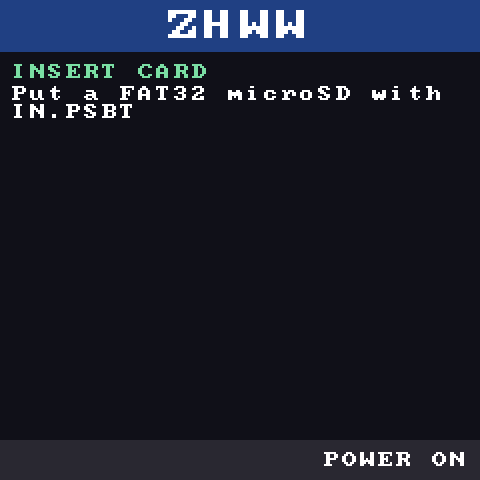
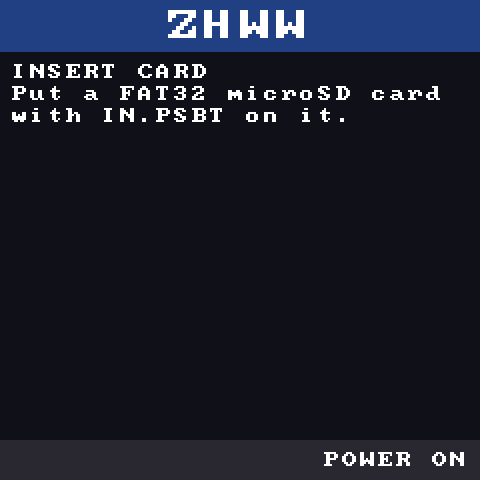
端末の状態機械を独立モジュールにし、全画面（エラー含む）を描けるようにした（299 → 304 テスト）
① 状態機械のモジュール化:
- src/app/device.zig: 端末が出すべき画面を決める層（ハードにもチェーンにも依存しない）。
  状況（待機・FAT32 でない・カードが読めない・IN.PSBT が無い・大きすぎる・PSBT が不正・
  鍵が無い・未対応の署名方式・その他）→ 画面の内容、という対応を 1 箇所に集約
- エラーの対応づけ（problemForMountError / problemForSignError）とファイルサイズの判定も
  ここに置き、テストで固定した
- 実機の main ループと PC 上の確認（walkthrough）が**同じ関数**を使う

② エラー画面の網羅:
- walkthrough が 7 画面（待機 + エラー 4 種 + 確認 + 結果）を PNG で出力
- **すべてのエラー画面に「署名は行っていない」旨を赤字で表示**（誤解させない）
- docs/08 に画面の対応表と画像を掲載

③ QR のページ送り:
- 署名済み PSBT は UR の複数パートになる（例では 4 パート）。 で確認でき、
  実機の NEXT PART と同じ流れになる

副次的な改善:
- 文字の折り返しを単語単位に変更（従来は単語の途中で切れていた）

UI 層と状態機械は RP2040 / RP2350 向けにもコンパイルできることを確認（zig build pico）。

diff --git a/docs/08-rp2350-pizero.md b/docs/08-rp2350-pizero.md
@@ -248,35 +248,43 @@ PC / スマホ側のツールと取り決める仕様をここで固定する。
 
 ### 画面の流れ（PC 上で再現できる）
 
-実機が無くても、カードを挿してから結果を出すまでの画面を PNG で確認できる。
+実機が無くても、**すべての画面**を PNG で確認できる。状態と画面の対応は
+[src/app/device.zig](../firmware/src/app/device.zig) にあり、**実機の main ループと PC の確認が同じ関数を使う**。
 
 ```bash
-# FAT32 イメージを用意して IN.PSBT を置く（mtools）
+# カードを用意する（mtools）
 mkfs.fat -F 32 -C card.img 40000
 jq -r .unsigned_psbt_base64 firmware/tests/vectors/core_psbt.json > in.txt
 mcopy -i card.img in.txt ::/IN.PSBT
 
-# 実機の画面の流れを出力する
+# 全画面を出力する
 cd firmware && zig build
 ./zig-out/bin/zhww walkthrough --image ../card.img \
   --mnemonic "abandon … about" --out-dir ../docs/images
 ```
 
-| 画面 | 内容 |
-|---|---|
-| ![1](images/1-waiting.png) | **カード待ち**: `INSERT CARD` |
-| ![2](images/2-found.png) | **確認**: カード上のファイル一覧と `SIGN` / `CANCEL` |
-| ![3](images/3-signed.png) | **結果**: 署名数・手数料と、署名済み PSBT の UR を QR で表示（`NEXT PART` で次のパートへ） |
+| 画面 | いつ出るか | 出力 |
+|---|---|---|
+| ![待機](images/1-waiting.png) | カードが挿さっていない | `1-waiting.png` |
+| ![FAT32 でない](images/2-not-fat32.png) | カードは読めたが FAT32 でない | `2-not-fat32.png` |
+| ![IN.PSBT が無い](images/3-no-input.png) | `IN.PSBT` が無い | `3-no-input.png` |
+| ![大きすぎる](images/4-too-large.png) | 64KB を超えている | `4-too-large.png` |
+| ![PSBT が不正](images/5-invalid-psbt.png) | PSBT として解釈できない | `5-invalid-psbt.png` |
+| ![確認](images/6-confirm.png) | 署名前の確認（カード上のファイル一覧） | `6-confirm.png` |
+| ![結果](images/7-signed.png) | 署名完了（UR を QR で表示） | `7-signed.png` |
+
+**すべてのエラー画面に「署名は行っていない」ことを赤字で出す**（利用者に誤解させない）。
+エラーの対応づけは `problemForMountError` / `problemForSignError` にあり、テストで固定してある。
+
+**多パート QR**: 署名済み PSBT は UR の複数パートになる（上の例では 4 パート）。実機は
+`NEXT PART` で送り、PC では `--part 3` のように指定して確認できる。
 
 QR は独立した読み取り実装（OpenCV の QRCodeDetector）で `ur:crypto-psbt/…` として復号できることを確認済み。
 
 ### エラー時の表示（画面に出す）
 
-- カードが無い / 読めない → `NO CARD`
-- FAT32 ではない（FAT16 / exFAT）→ `NOT FAT32`（対応を広げる場合はここを変える）
-- `IN.PSBT` が無い → `NO IN.PSBT`
-- 64KB 超 → `FILE TOO LARGE`
-- PSBT として解釈できない → `INVALID PSBT`（理由は `OUT.LOG` に書かない。端末の画面に出す）
+上の表のとおり（`NO CARD` / `NOT FAT32` / `NO IN.PSBT` / `FILE TOO LARGE` / `INVALID PSBT`）。
+いずれも画面に出し、**署名していないこと**を赤字で添える。
 
 ## 8. 検証計画
 

diff --git a/firmware/tests/README.md b/firmware/tests/README.md
@@ -9,7 +9,7 @@ cd firmware && zig build test
 実装のユニットテスト（`src/` 内の `test` ブロック）と、公式テストベクタによる統合テスト
 （本ディレクトリ）を `firmware/tests.zig` がまとめて実行する。
 
-**現在: 299 件すべて成功。**（Debug / ReleaseSafe / ReleaseFast / ReleaseSmall の
+**現在: 304 件すべて成功。**（Debug / ReleaseSafe / ReleaseFast / ReleaseSmall の
 4 モードすべてで成功することを確認済み。GitHub Actions でも Linux 上で毎回検証している）
 
 ## 最も強い検証: Bitcoin Core が署名を受理する
